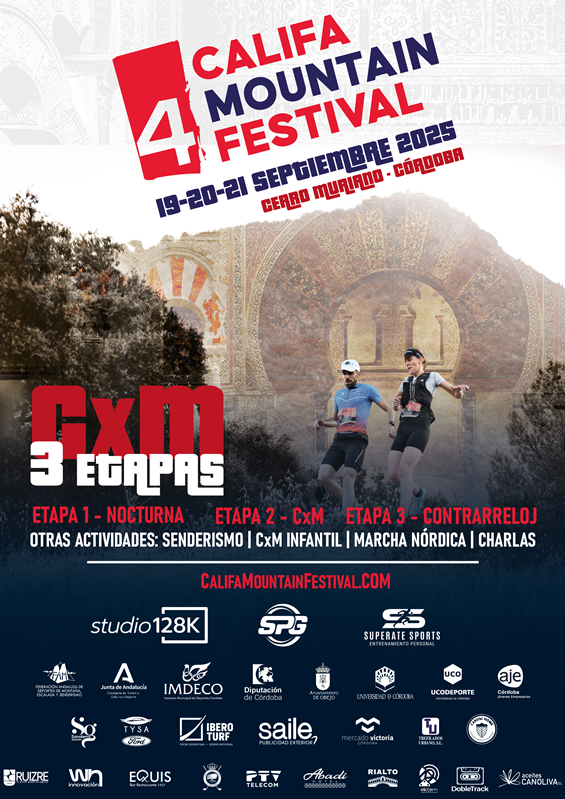
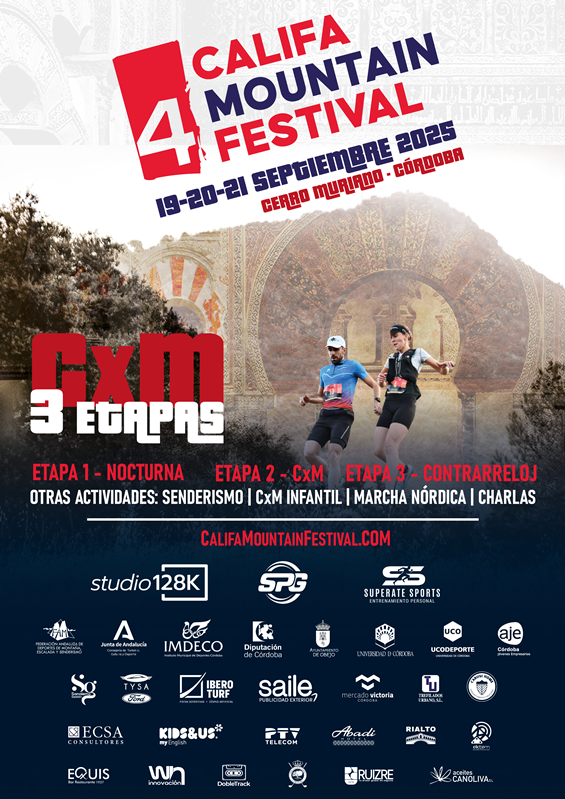
kidus ecsa

Changed region(s): [[0.0301, 0.3905, 0.9929, 1.0], [0.1204, 0.9612, 0.331, 0.9912], [0.0, 0.9612, 0.0903, 0.9912]]

diff --git a/voluntarios.html b/voluntarios.html
@@ -280,6 +280,18 @@
                             <a href="https://elictem.com/" target="_blank"><img src="./images/elictem-logo-blanco.png" style="width:100%; height: auto" /></a>
                         </div>
                         <div class="col-2">
+                            <a href="https://ecsaconsultores.com/" target="_blank"><img src="./images/ecsa-logo-blanco.png" style="width:100%; height: auto" /></a>
+                        </div>
+                        <div class="col-2">
+                            <a href="https://www.kidsandus.es/" target="_blank"><img src="./images/kidus-logo-blanco.png" style="width:100%; height: auto" /></a>
+                        </div>
+                        <div class="col-2">
+                            <a href="https://ecsaconsultores.com/" target="_blank"><img src="./images/ecsa-logo-blanco.png" style="width:100%; height: auto" /></a>
+                        </div>
+                        <div class="col-2">
+                            <a href="https://www.kidsandus.es/" target="_blank"><img src="./images/kidus-logo-blanco.png" style="width:100%; height: auto" /></a>
+                        </div>
+                        <div class="col-2">
                             <a href="https://www.facebook.com/p/DobleTrack-100083390556313" target="_blank"><img src="./images/dobletrack-logo-blanco.png" style="width:100%; height: auto" /></a>
                         </div>
                         <div class="col-2">

diff --git a/2022.html b/2022.html
@@ -454,6 +454,12 @@
                         <a href="https://elictem.com/" target="_blank"><img src="./images/elictem-logo-blanco.png" style="width:100%; height: auto" /></a>
                     </div>
                     <div class="col-2">
+                        <a href="https://ecsaconsultores.com/" target="_blank"><img src="./images/ecsa-logo-blanco.png" style="width:100%; height: auto" /></a>
+                    </div>
+                    <div class="col-2">
+                        <a href="https://www.kidsandus.es/" target="_blank"><img src="./images/kidus-logo-blanco.png" style="width:100%; height: auto" /></a>
+                    </div>
+                    <div class="col-2">
                         <a href="https://www.facebook.com/p/DobleTrack-100083390556313" target="_blank"><img src="./images/dobletrack-logo-blanco.png" style="width:100%; height: auto" /></a>
                     </div>
                     <div class="col-2">

diff --git a/2023.html b/2023.html
@@ -419,6 +419,12 @@
                         <a href="https://elictem.com/" target="_blank"><img src="./images/elictem-logo-blanco.png" style="width:100%; height: auto" /></a>
                     </div>
                     <div class="col-2">
+                        <a href="https://ecsaconsultores.com/" target="_blank"><img src="./images/ecsa-logo-blanco.png" style="width:100%; height: auto" /></a>
+                    </div>
+                    <div class="col-2">
+                        <a href="https://www.kidsandus.es/" target="_blank"><img src="./images/kidus-logo-blanco.png" style="width:100%; height: auto" /></a>
+                    </div>
+                    <div class="col-2">
                         <a href="https://www.facebook.com/p/DobleTrack-100083390556313" target="_blank"><img src="./images/dobletrack-logo-blanco.png" style="width:100%; height: auto" /></a>
                     </div>
                     <div class="col-2">

diff --git a/2024.html b/2024.html
@@ -811,6 +811,12 @@
                         <a href="https://elictem.com/" target="_blank"><img src="./images/elictem-logo-blanco.png" style="width:100%; height: auto" /></a>
                     </div>
                     <div class="col-2">
+                        <a href="https://ecsaconsultores.com/" target="_blank"><img src="./images/ecsa-logo-blanco.png" style="width:100%; height: auto" /></a>
+                    </div>
+                    <div class="col-2">
+                        <a href="https://www.kidsandus.es/" target="_blank"><img src="./images/kidus-logo-blanco.png" style="width:100%; height: auto" /></a>
+                    </div>
+                    <div class="col-2">
                         <a href="https://www.facebook.com/p/DobleTrack-100083390556313" target="_blank"><img src="./images/dobletrack-logo-blanco.png" style="width:100%; height: auto" /></a>
                     </div>
                     <div class="col-2">

diff --git a/blog.html b/blog.html
@@ -277,6 +277,12 @@
                         <a href="https://elictem.com/" target="_blank"><img src="./images/elictem-logo-blanco.png" style="width:100%; height: auto" /></a>
                     </div>
                     <div class="col-2">
+                        <a href="https://ecsaconsultores.com/" target="_blank"><img src="./images/ecsa-logo-blanco.png" style="width:100%; height: auto" /></a>
+                    </div>
+                    <div class="col-2">
+                        <a href="https://www.kidsandus.es/" target="_blank"><img src="./images/kidus-logo-blanco.png" style="width:100%; height: auto" /></a>
+                    </div>
+                    <div class="col-2">
                         <a href="https://www.facebook.com/p/DobleTrack-100083390556313" target="_blank"><img src="./images/dobletrack-logo-blanco.png" style="width:100%; height: auto" /></a>
                     </div>
                     <div class="col-2">

diff --git a/contacto.html b/contacto.html
@@ -283,6 +283,12 @@
                         <a href="https://elictem.com/" target="_blank"><img src="./images/elictem-logo-blanco.png" style="width:100%; height: auto" /></a>
                     </div>
                     <div class="col-2">
+                        <a href="https://ecsaconsultores.com/" target="_blank"><img src="./images/ecsa-logo-blanco.png" style="width:100%; height: auto" /></a>
+                    </div>
+                    <div class="col-2">
+                        <a href="https://www.kidsandus.es/" target="_blank"><img src="./images/kidus-logo-blanco.png" style="width:100%; height: auto" /></a>
+                    </div>
+                    <div class="col-2">
                         <a href="https://www.facebook.com/p/DobleTrack-100083390556313" target="_blank"><img src="./images/dobletrack-logo-blanco.png" style="width:100%; height: auto" /></a>
                     </div>
                     <div class="col-2">

diff --git a/cordoba-la-llana.html b/cordoba-la-llana.html
@@ -258,6 +258,12 @@
                         <a href="https://elictem.com/" target="_blank"><img src="./images/elictem-logo-blanco.png" style="width:100%; height: auto" /></a>
                     </div>
                     <div class="col-2">
+                        <a href="https://ecsaconsultores.com/" target="_blank"><img src="./images/ecsa-logo-blanco.png" style="width:100%; height: auto" /></a>
+                    </div>
+                    <div class="col-2">
+                        <a href="https://www.kidsandus.es/" target="_blank"><img src="./images/kidus-logo-blanco.png" style="width:100%; height: auto" /></a>
+                    </div>
+                    <div class="col-2">
                         <a href="https://www.facebook.com/p/DobleTrack-100083390556313" target="_blank"><img src="./images/dobletrack-logo-blanco.png" style="width:100%; height: auto" /></a>
                     </div>
                     <div class="col-2">

diff --git a/impacto.html b/impacto.html
@@ -254,6 +254,12 @@
                         <a href="https://elictem.com/" target="_blank"><img src="./images/elictem-logo-blanco.png" style="width:100%; height: auto" /></a>
                     </div>
                     <div class="col-2">
+                        <a href="https://ecsaconsultores.com/" target="_blank"><img src="./images/ecsa-logo-blanco.png" style="width:100%; height: auto" /></a>
+                    </div>
+                    <div class="col-2">
+                        <a href="https://www.kidsandus.es/" target="_blank"><img src="./images/kidus-logo-blanco.png" style="width:100%; height: auto" /></a>
+                    </div>
+                    <div class="col-2">
                         <a href="https://www.facebook.com/p/DobleTrack-100083390556313" target="_blank"><img src="./images/dobletrack-logo-blanco.png" style="width:100%; height: auto" /></a>
                     </div>
                     <div class="col-2">

diff --git a/index.html b/index.html
@@ -401,6 +401,12 @@
                         <a href="https://elictem.com/" target="_blank"><img src="./images/elictem-logo-blanco.png" style="width:100%; height: auto" /></a>
                     </div>
                     <div class="col-2">
+                        <a href="https://ecsaconsultores.com/" target="_blank"><img src="./images/ecsa-logo-blanco.png" style="width:100%; height: auto" /></a>
+                    </div>
+                    <div class="col-2">
+                        <a href="https://www.kidsandus.es/" target="_blank"><img src="./images/kidus-logo-blanco.png" style="width:100%; height: auto" /></a>
+                    </div>
+                    <div class="col-2">
                         <a href="https://www.facebook.com/p/DobleTrack-100083390556313" target="_blank"><img src="./images/dobletrack-logo-blanco.png" style="width:100%; height: auto" /></a>
                     </div>
                     <div class="col-2">

diff --git a/presentacion-oficial-2024.html b/presentacion-oficial-2024.html
@@ -391,6 +391,12 @@
                         <a href="https://elictem.com/" target="_blank"><img src="./images/elictem-logo-blanco.png" style="width:100%; height: auto" /></a>
                     </div>
                     <div class="col-2">
+                        <a href="https://ecsaconsultores.com/" target="_blank"><img src="./images/ecsa-logo-blanco.png" style="width:100%; height: auto" /></a>
+                    </div>
+                    <div class="col-2">
+                        <a href="https://www.kidsandus.es/" target="_blank"><img src="./images/kidus-logo-blanco.png" style="width:100%; height: auto" /></a>
+                    </div>
+                    <div class="col-2">
                         <a href="https://www.facebook.com/p/DobleTrack-100083390556313" target="_blank"><img src="./images/dobletrack-logo-blanco.png" style="width:100%; height: auto" /></a>
                     </div>
                     <div class="col-2">

diff --git a/presentacion.html b/presentacion.html
@@ -247,6 +247,12 @@
                         <a href="https://elictem.com/" target="_blank"><img src="./images/elictem-logo-blanco.png" style="width:100%; height: auto" /></a>
                     </div>
                     <div class="col-2">
+                        <a href="https://ecsaconsultores.com/" target="_blank"><img src="./images/ecsa-logo-blanco.png" style="width:100%; height: auto" /></a>
+                    </div>
+                    <div class="col-2">
+                        <a href="https://www.kidsandus.es/" target="_blank"><img src="./images/kidus-logo-blanco.png" style="width:100%; height: auto" /></a>
+                    </div>
+                    <div class="col-2">
                         <a href="https://www.facebook.com/p/DobleTrack-100083390556313" target="_blank"><img src="./images/dobletrack-logo-blanco.png" style="width:100%; height: auto" /></a>
                     </div>
                     <div class="col-2">

diff --git a/quedadabrooks.html b/quedadabrooks.html
@@ -259,6 +259,12 @@
                         <a href="https://elictem.com/" target="_blank"><img src="./images/elictem-logo-blanco.png" style="width:100%; height: auto" /></a>
                     </div>
                     <div class="col-2">
+                        <a href="https://ecsaconsultores.com/" target="_blank"><img src="./images/ecsa-logo-blanco.png" style="width:100%; height: auto" /></a>
+                    </div>
+                    <div class="col-2">
+                        <a href="https://www.kidsandus.es/" target="_blank"><img src="./images/kidus-logo-blanco.png" style="width:100%; height: auto" /></a>
+                    </div>
+                    <div class="col-2">
                         <a href="https://www.facebook.com/p/DobleTrack-100083390556313" target="_blank"><img src="./images/dobletrack-logo-blanco.png" style="width:100%; height: auto" /></a>
                     </div>
                     <div class="col-2">
